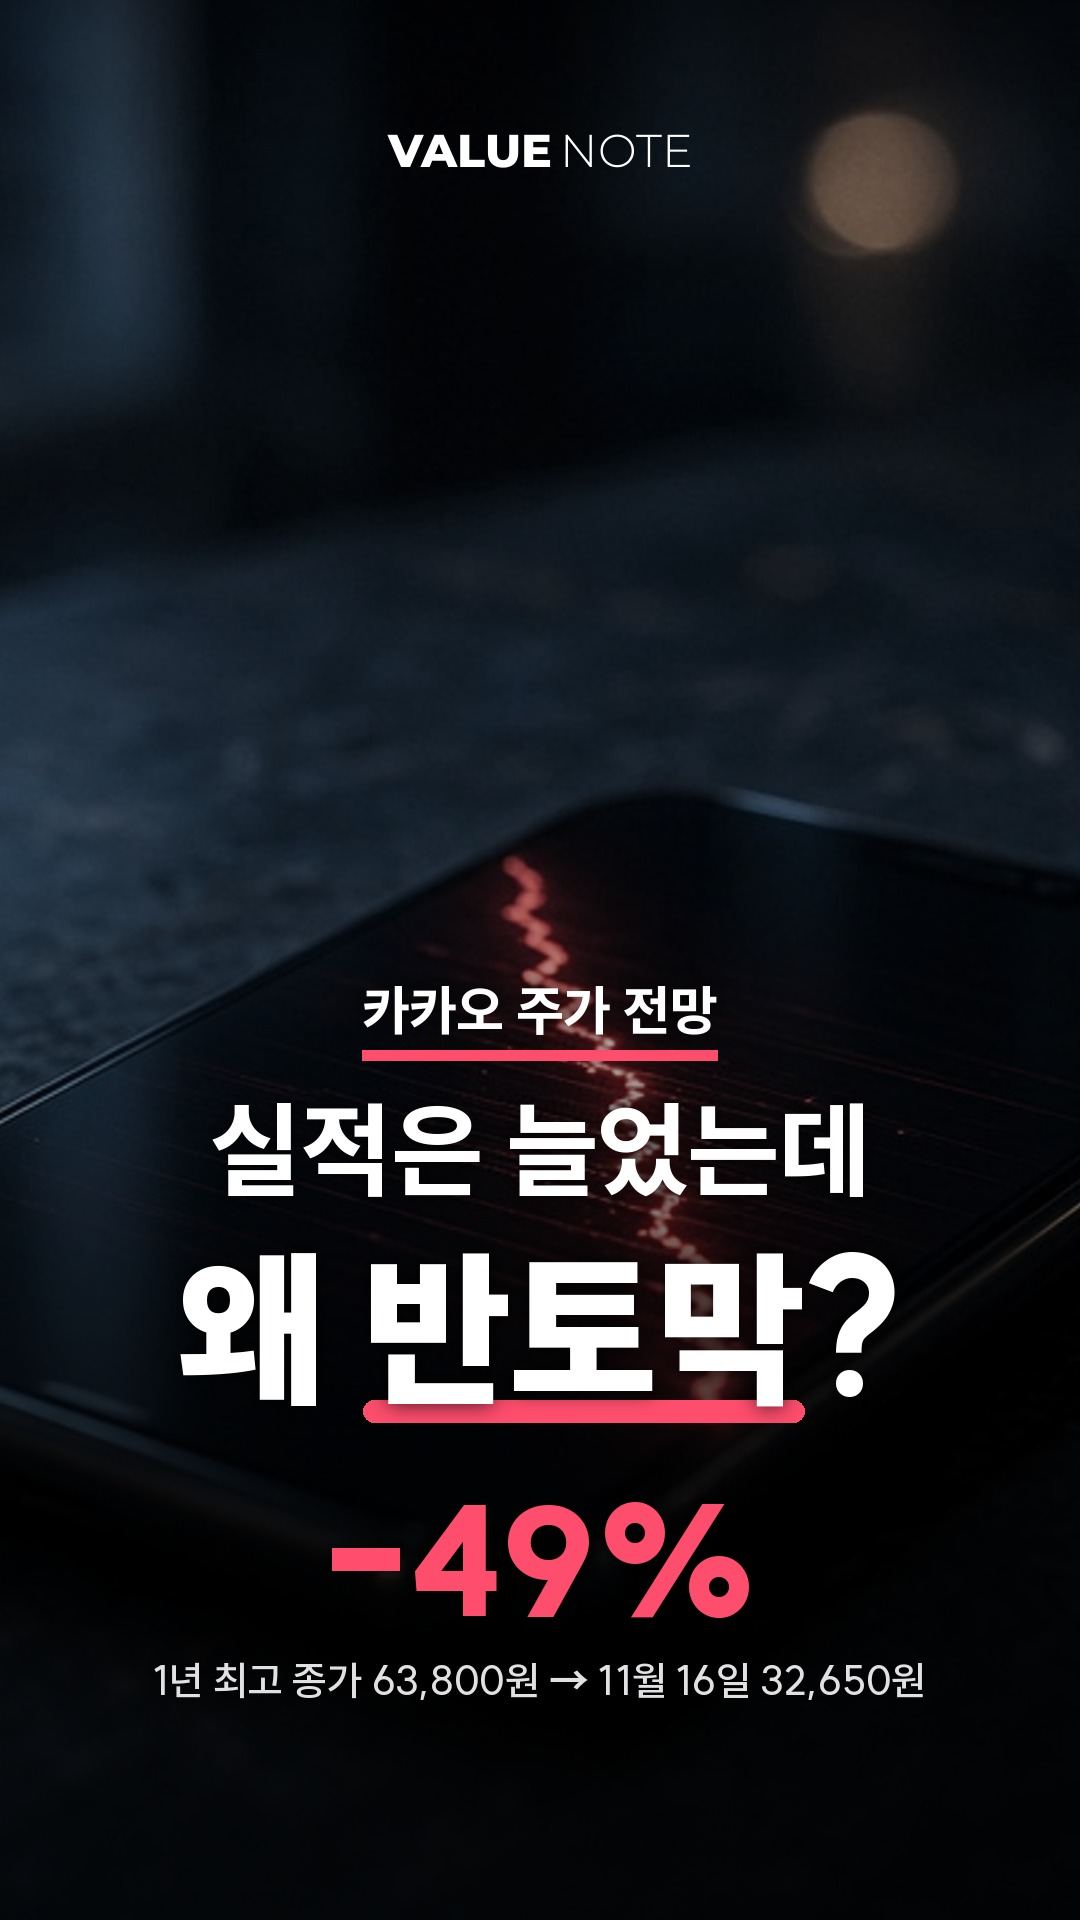
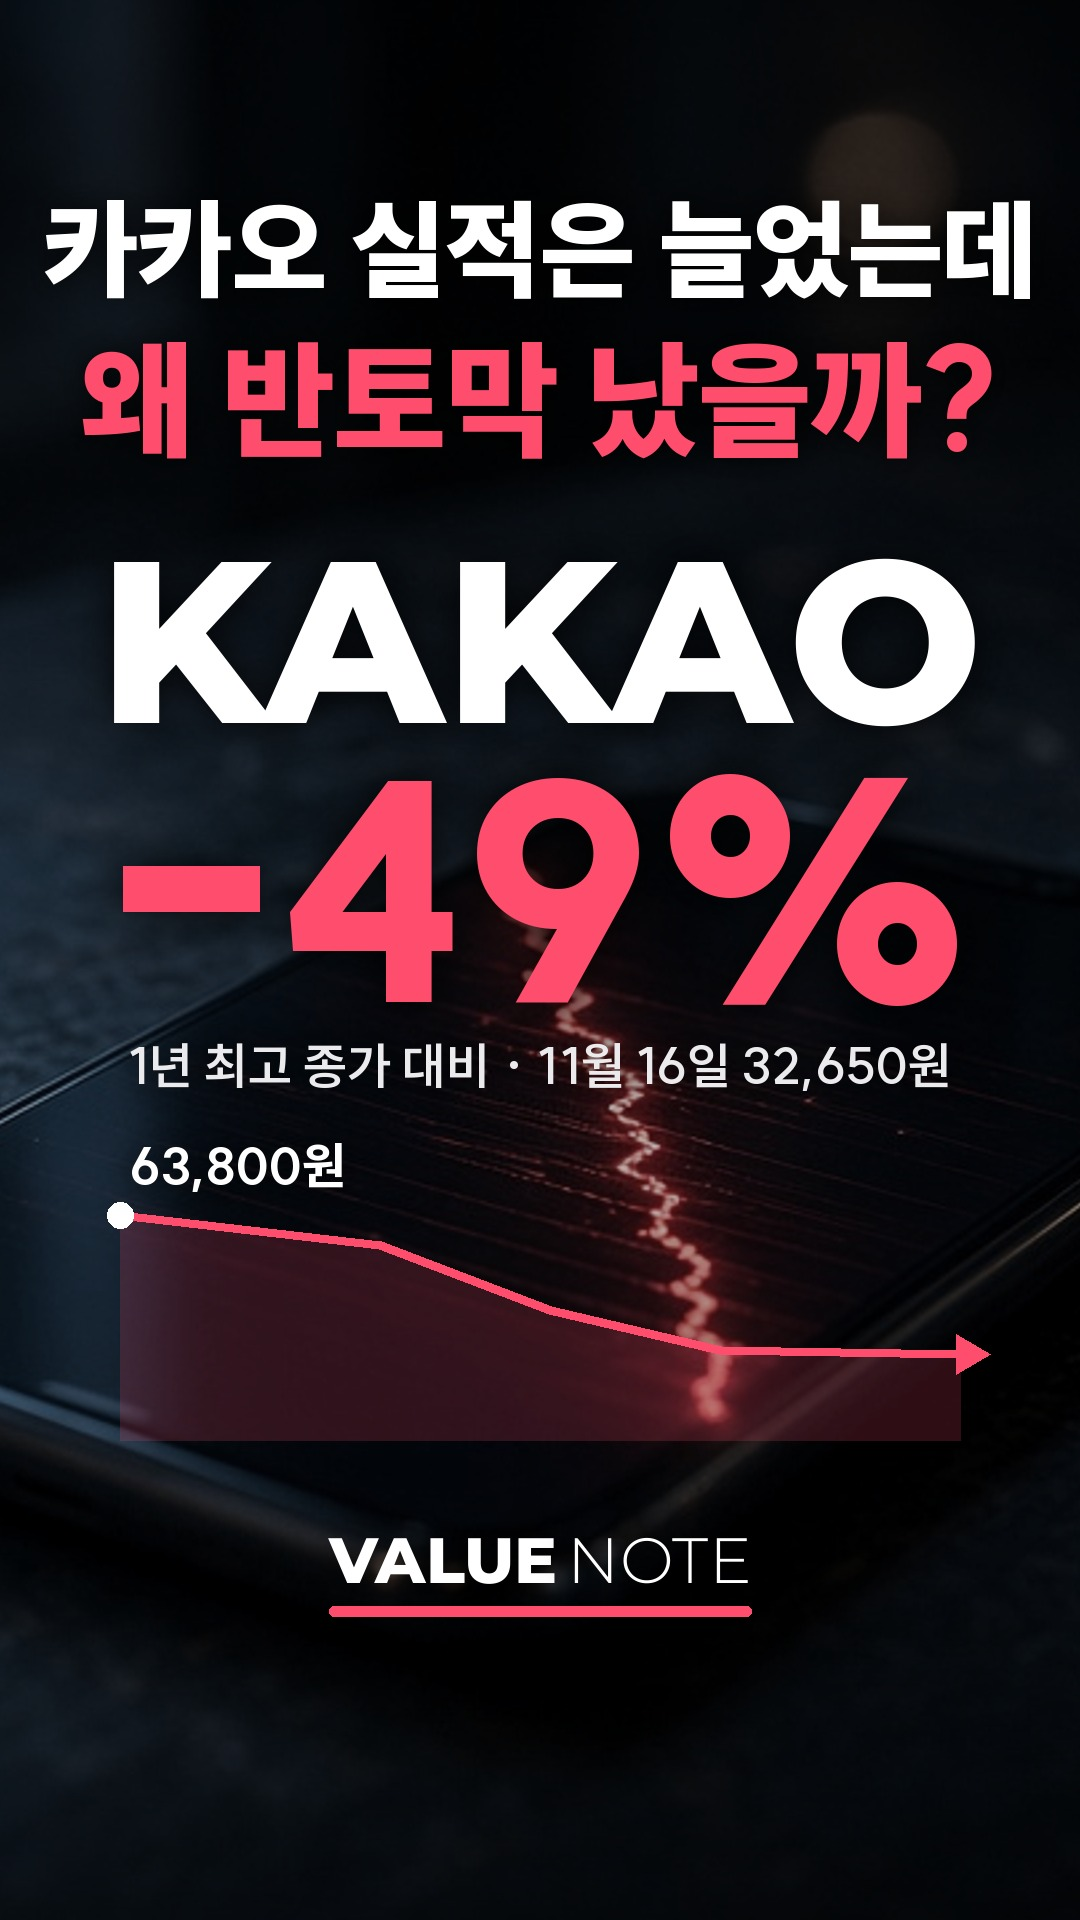
쇼츠 표지 흑백 v2: 잘된 쇼츠 틀(제목 2줄·영문 회사명·큰 숫자·그래프·로고)로 글씨 크게 [skip ci]
Claude-Session: https://claude.ai/code/session_01KaYReGhYArua2bxZ55Wufo

diff --git a/scripts/reels/thumb_bw.py b/scripts/reels/thumb_bw.py
@@ -1,46 +1,47 @@
-"""쇼츠 표지 흑백 + 핑크 (2026-11-17 대표님: 새 디자인으로 쇼츠 썸네일). python3 thumb_bw.py <spec.json> <out.jpg>
-spec: {photo, tag, l1, l2, hl(밑줄 낱말), big, big_label}"""
+"""쇼츠 표지 흑백 + 핑크 v2 (2026-11-17 22:28 대표님: 글씨가 작다 → 잘된 쇼츠 표지(제목 2줄 크게 → 회사 이름 → 큰 숫자 → 기준 문구 → 얇은 그래프 → 로고) 틀을 흑백+핑크로).
+python3 thumb_bw.py <spec.json> <out.jpg>
+spec: {photo, l1, l2, name, big, big_label, from_label?, tone: loss|gain, fx?}"""
 import json, os, sys
 import numpy as np
 from PIL import Image, ImageDraw, ImageFilter, ImageFont
 HERE = os.path.dirname(os.path.abspath(__file__)); ROOT = os.path.join(HERE, "..", "..")
 W, H = 1080, 1920; PINK = (255, 77, 109); WH = (255, 255, 255)
 def SUIT(w, s): return ImageFont.truetype(os.path.join(HERE, "fonts", f"SUIT-{w}.ttf"), s)
-def fit(txt, w, size, maxw):
-    while size > 40 and SUIT(w, size).getlength(txt) > maxw: size -= 4
-    return SUIT(w, size)
-def shadow_text(base, xy, txt, font, fill, anchor="mm"):
-    sh = Image.new("RGBA", base.size, (0, 0, 0, 0)); ImageDraw.Draw(sh).text(xy, txt, font=font, fill=(0, 0, 0, 200), anchor=anchor)
-    base.alpha_composite(sh.filter(ImageFilter.GaussianBlur(10))); ImageDraw.Draw(base).text(xy, txt, font=font, fill=fill, anchor=anchor)
+def MON(w, s): return ImageFont.truetype(os.path.join(HERE, "fonts", f"Montserrat-{w}.ttf"), s)
+def fit(fn, w, txt, size, maxw):
+    while size > 40 and fn(w, size).getlength(txt) > maxw: size -= 4
+    return fn(w, size)
+def st(base, xy, txt, font, fill, anchor="mm", blur=14, a=210):
+    sh = Image.new("RGBA", base.size, (0, 0, 0, 0)); ImageDraw.Draw(sh).text(xy, txt, font=font, fill=(0, 0, 0, a), anchor=anchor)
+    base.alpha_composite(sh.filter(ImageFilter.GaussianBlur(blur))); ImageDraw.Draw(base).text(xy, txt, font=font, fill=fill, anchor=anchor)
 def render(sp, out):
     ph = Image.open(os.path.join(ROOT, "scripts", "blog", "media", "lib", sp["photo"])).convert("RGB")
     s = max(W / ph.width, H / ph.height); ph = ph.resize((int(ph.width * s) + 1, int(ph.height * s) + 1))
     ox = int((ph.width - W) * sp.get("fx", .5)); ph = ph.crop((ox, 0, ox + W, H))
-    a = np.asarray(ph, np.float32); g = a.mean(2, keepdims=True); a = (a * .6 + g * .4) * 1.15
+    a = np.asarray(ph, np.float32); g = a.mean(2, keepdims=True); a = (a * .6 + g * .4) * 1.1
     yy = np.linspace(0, 1, H)[:, None, None]
-    m = np.maximum(.18 + .62 * np.clip((yy - .42) / .40, 0, 1), .45 * np.clip((.16 - yy) / .16, 0, 1))
-    a = a * (1 - np.clip(m, 0, .9)); img = Image.fromarray(np.clip(a, 0, 255).astype(np.uint8)).convert("RGBA")
-    d = ImageDraw.Draw(img)
-    # 로고
-    try:
-        fb, fl = ImageFont.truetype(os.path.join(HERE, "fonts", "Montserrat-ExtraBold.ttf"), 46), ImageFont.truetype(os.path.join(HERE, "fonts", "Montserrat-Light.ttf"), 46)
-    except Exception:
-        fb = fl = SUIT("ExtraBold", 44)
-    lw = fb.getlength("VALUE") + fl.getlength("NOTE") + 8; lx = (W - lw) / 2
-    d.text((lx, 150), "VALUE", font=fb, fill=WH, anchor="lm"); d.text((lx + fb.getlength("VALUE") + 8, 150), "NOTE", font=fl, fill=WH, anchor="lm")
-    # 꼬리표
-    ft = SUIT("ExtraBold", 54); tw = ft.getlength(sp["tag"]); ty = 1010
-    d.rectangle([(W - tw) / 2, ty + 40, (W + tw) / 2, ty + 50], fill=PINK)
-    shadow_text(img, (W / 2, ty), sp["tag"], ft, WH)
-    f1 = fit(sp["l1"], "ExtraBold", 104, W - 120); shadow_text(img, (W / 2, 1150), sp["l1"], f1, WH)
-    f2 = fit(sp["l2"], "Heavy", 168, W - 90); y2 = 1330
-    if sp.get("hl") and sp["hl"] in sp["l2"]:
-        pre = sp["l2"][:sp["l2"].index(sp["hl"])]; tw2 = f2.getlength(sp["l2"]); x0 = (W - tw2) / 2 + f2.getlength(pre)
-        ImageDraw.Draw(img).rounded_rectangle([x0, y2 + 70, x0 + f2.getlength(sp["hl"]), y2 + 92], 11, fill=PINK)
-    shadow_text(img, (W / 2, y2), sp["l2"], f2, WH)
-    if sp.get("big"):
-        shadow_text(img, (W / 2, 1560), sp["big"], SUIT("Heavy", 150), PINK)
-        if sp.get("big_label"): shadow_text(img, (W / 2, 1680), sp["big_label"], fit(sp["big_label"], "SemiBold", 40, W - 140), (225, 225, 228))
+    m = .30 + .35 * np.clip((.55 - yy) / .45, 0, 1) + .35 * np.clip((yy - .78) / .22, 0, 1)
+    img = Image.fromarray(np.clip(a * (1 - m), 0, 255).astype(np.uint8)).convert("RGBA")
+    col = PINK if sp.get("tone", "loss") == "loss" else WH
+    # 제목 2줄 (흰색 · 둘째 줄 핑크)
+    f1 = fit(SUIT, "Heavy", sp["l1"], 128, W - 80); st(img, (W / 2, 250), sp["l1"], f1, WH)
+    f2 = fit(SUIT, "Heavy", sp["l2"], 128, W - 80); st(img, (W / 2, 400), sp["l2"], f2, PINK)
+    # 회사 이름 (영문 크게)
+    fn = fit(MON, "ExtraBold", sp["name"], 230, W - 90); st(img, (W / 2, 640), sp["name"], fn, WH, blur=18)
+    # 큰 숫자
+    fb = fit(SUIT, "Heavy", sp["big"], 300, W - 80); st(img, (W / 2, 890), sp["big"], fb, col, blur=20, a=230)
+    fl = fit(SUIT, "Bold", sp["big_label"], 50, W - 120); st(img, (W / 2, 1065), sp["big_label"], fl, (235, 235, 238))
+    # 얇은 그래프 (높은 곳 → 낮은 곳)
+    d = ImageDraw.Draw(img); x0, x1, y0, y1 = 120, 960, 1215, 1350
+    pts = [(x0, y0), (x0 + 260, y0 + 30), (x0 + 430, y1 - 40), (x0 + 600, y1), (x1, y1 + 4)]
+    fill = Image.new("RGBA", img.size, (0, 0, 0, 0)); ImageDraw.Draw(fill).polygon(pts + [(x1, y1 + 90), (x0, y1 + 90)], fill=(*PINK, 46)); img.alpha_composite(fill)
+    d = ImageDraw.Draw(img); d.line(pts, fill=PINK, width=9, joint="curve"); d.ellipse([x0 - 13, y0 - 13, x0 + 13, y0 + 13], fill=WH)
+    d.polygon([(x1 + 30, y1 + 4), (x1 - 4, y1 - 16), (x1 - 4, y1 + 24)], fill=PINK)
+    if sp.get("from_label"): st(img, (x0 + 10, y0 - 50), sp["from_label"], SUIT("ExtraBold", 50), WH, anchor="lm")
+    # 로고 + 핑크 밑줄
+    fb2, fl2 = MON("ExtraBold", 64), MON("Light", 64); lw = fb2.getlength("VALUE") + fl2.getlength("NOTE") + 10; lx = (W - lw) / 2; ly = 1560
+    st(img, (lx, ly), "VALUE", fb2, WH, anchor="lm"); st(img, (lx + fb2.getlength("VALUE") + 10, ly), "NOTE", fl2, WH, anchor="lm")
+    ImageDraw.Draw(img).rounded_rectangle([lx, ly + 46, lx + lw, ly + 56], 5, fill=PINK)
     img.convert("RGB").save(out, quality=92)
 if __name__ == "__main__":
     render(json.load(open(sys.argv[1], encoding="utf-8")), sys.argv[2])
